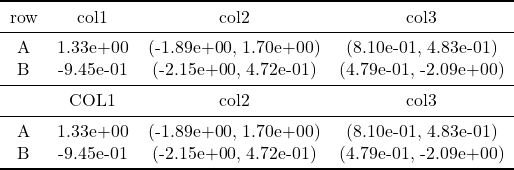
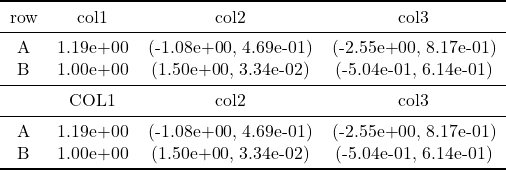
build based on 5904b08

diff --git a/dev/index.html b/dev/index.html
@@ -1,2 +1,2 @@
 <!DOCTYPE html>
-<html lang="en"><head><meta charset="UTF-8"/><meta name="viewport" content="width=device-width, initial-scale=1.0"/><title>LaTeXTables.jl Documentation · LaTeXTables.jl Documentation</title><script data-outdated-warner src="assets/warner.js"></script><link href="https://cdnjs.cloudflare.com/ajax/libs/lato-font/3.0.0/css/lato-font.min.css" rel="stylesheet" type="text/css"/><link href="https://cdnjs.cloudflare.com/ajax/libs/juliamono/0.045/juliamono.min.css" rel="stylesheet" type="text/css"/><link href="https://cdnjs.cloudflare.com/ajax/libs/font-awesome/5.15.4/css/fontawesome.min.css" rel="stylesheet" type="text/css"/><link href="https://cdnjs.cloudflare.com/ajax/libs/font-awesome/5.15.4/css/solid.min.css" rel="stylesheet" type="text/css"/><link href="https://cdnjs.cloudflare.com/ajax/libs/font-awesome/5.15.4/css/brands.min.css" rel="stylesheet" type="text/css"/><link href="https://cdnjs.cloudflare.com/ajax/libs/KaTeX/0.13.24/katex.min.css" rel="stylesheet" type="text/css"/><script>documenterBaseURL="."</script><script src="https://cdnjs.cloudflare.com/ajax/libs/require.js/2.3.6/require.min.js" data-main="assets/documenter.js"></script><script src="siteinfo.js"></script><script src="../versions.js"></script><link class="docs-theme-link" rel="stylesheet" type="text/css" href="assets/themes/documenter-dark.css" data-theme-name="documenter-dark" data-theme-primary-dark/><link class="docs-theme-link" rel="stylesheet" type="text/css" href="assets/themes/documenter-light.css" data-theme-name="documenter-light" data-theme-primary/><script src="assets/themeswap.js"></script></head><body><div id="documenter"><nav class="docs-sidebar"><div class="docs-package-name"><span class="docs-autofit"><a href>LaTeXTables.jl Documentation</a></span></div><form class="docs-search" action="search/"><input class="docs-search-query" id="documenter-search-query" name="q" type="text" placeholder="Search docs"/></form><ul class="docs-menu"><li class="is-active"><a class="tocitem" href>LaTeXTables.jl Documentation</a><ul class="internal"><li><a class="tocitem" href="#Related-Packages"><span>Related Packages</span></a></li></ul></li><li><a class="tocitem" href="api/">API</a></li><li><a class="tocitem" href="example/">Examples</a></li></ul><div class="docs-version-selector field has-addons"><div class="control"><span class="docs-label button is-static is-size-7">Version</span></div><div class="docs-selector control is-expanded"><div class="select is-fullwidth is-size-7"><select id="documenter-version-selector"></select></div></div></div></nav><div class="docs-main"><header class="docs-navbar"><nav class="breadcrumb"><ul class="is-hidden-mobile"><li class="is-active"><a href>LaTeXTables.jl Documentation</a></li></ul><ul class="is-hidden-tablet"><li class="is-active"><a href>LaTeXTables.jl Documentation</a></li></ul></nav><div class="docs-right"><a class="docs-edit-link" href="https://github.com/szcf-weiya/LaTeXTables.jl/blob/master/docs/src/index.md" title="Edit on GitHub"><span class="docs-icon fab"></span><span class="docs-label is-hidden-touch">Edit on GitHub</span></a><a class="docs-settings-button fas fa-cog" id="documenter-settings-button" href="#" title="Settings"></a><a class="docs-sidebar-button fa fa-bars is-hidden-desktop" id="documenter-sidebar-button" href="#"></a></div></header><article class="content" id="documenter-page"><h1 id="LaTeXTables.jl-Documentation"><a class="docs-heading-anchor" href="#LaTeXTables.jl-Documentation">LaTeXTables.jl Documentation</a><a id="LaTeXTables.jl-Documentation-1"></a><a class="docs-heading-anchor-permalink" href="#LaTeXTables.jl-Documentation" title="Permalink"></a></h1><p>LaTeXTables.jl is a Julia package that coverts (complex) tables into LaTeX code.</p><h2 id="Related-Packages"><a class="docs-heading-anchor" href="#Related-Packages">Related Packages</a><a id="Related-Packages-1"></a><a class="docs-heading-anchor-permalink" href="#Related-Packages" title="Permalink"></a></h2><ul><li><a href="https://github.com/scheinerman/LatexPrint.jl">https://github.com/scheinerman/LatexPrint.jl</a>: only support basic data structure, such as 1d or 2d arrays</li><li><a href="https://github.com/ronisbr/PrettyTables.jl">https://github.com/ronisbr/PrettyTables.jl</a>: only support simple tables, i.e., one level row and one level column</li></ul></article><nav class="docs-footer"><a class="docs-footer-nextpage" href="api/">API »</a><div class="flexbox-break"></div><p class="footer-message">Powered by <a href="https://github.com/JuliaDocs/Documenter.jl">Documenter.jl</a> and the <a href="https://julialang.org/">Julia Programming Language</a>.</p></nav></div><div class="modal" id="documenter-settings"><div class="modal-background"></div><div class="modal-card"><header class="modal-card-head"><p class="modal-card-title">Settings</p><button class="delete"></button></header><section class="modal-card-body"><p><label class="label">Theme</label><div class="select"><select id="documenter-themepicker"><option value="documenter-light">documenter-light</option><option value="documenter-dark">documenter-dark</option></select></div></p><hr/><p>This document was generated with <a href="https://github.com/JuliaDocs/Documenter.jl">Documenter.jl</a> version 0.27.23 on <span class="colophon-date" title="Wednesday 4 January 2023 02:02">Wednesday 4 January 2023</span>. Using Julia version 1.7.3.</p></section><footer class="modal-card-foot"></footer></div></div></div></body></html>
+<html lang="en"><head><meta charset="UTF-8"/><meta name="viewport" content="width=device-width, initial-scale=1.0"/><title>LaTeXTables.jl Documentation · LaTeXTables.jl Documentation</title><script data-outdated-warner src="assets/warner.js"></script><link href="https://cdnjs.cloudflare.com/ajax/libs/lato-font/3.0.0/css/lato-font.min.css" rel="stylesheet" type="text/css"/><link href="https://cdnjs.cloudflare.com/ajax/libs/juliamono/0.045/juliamono.min.css" rel="stylesheet" type="text/css"/><link href="https://cdnjs.cloudflare.com/ajax/libs/font-awesome/5.15.4/css/fontawesome.min.css" rel="stylesheet" type="text/css"/><link href="https://cdnjs.cloudflare.com/ajax/libs/font-awesome/5.15.4/css/solid.min.css" rel="stylesheet" type="text/css"/><link href="https://cdnjs.cloudflare.com/ajax/libs/font-awesome/5.15.4/css/brands.min.css" rel="stylesheet" type="text/css"/><link href="https://cdnjs.cloudflare.com/ajax/libs/KaTeX/0.13.24/katex.min.css" rel="stylesheet" type="text/css"/><script>documenterBaseURL="."</script><script src="https://cdnjs.cloudflare.com/ajax/libs/require.js/2.3.6/require.min.js" data-main="assets/documenter.js"></script><script src="siteinfo.js"></script><script src="../versions.js"></script><link class="docs-theme-link" rel="stylesheet" type="text/css" href="assets/themes/documenter-dark.css" data-theme-name="documenter-dark" data-theme-primary-dark/><link class="docs-theme-link" rel="stylesheet" type="text/css" href="assets/themes/documenter-light.css" data-theme-name="documenter-light" data-theme-primary/><script src="assets/themeswap.js"></script></head><body><div id="documenter"><nav class="docs-sidebar"><div class="docs-package-name"><span class="docs-autofit"><a href>LaTeXTables.jl Documentation</a></span></div><form class="docs-search" action="search/"><input class="docs-search-query" id="documenter-search-query" name="q" type="text" placeholder="Search docs"/></form><ul class="docs-menu"><li class="is-active"><a class="tocitem" href>LaTeXTables.jl Documentation</a><ul class="internal"><li><a class="tocitem" href="#Related-Packages"><span>Related Packages</span></a></li></ul></li><li><a class="tocitem" href="api/">API</a></li><li><a class="tocitem" href="example/">Examples</a></li></ul><div class="docs-version-selector field has-addons"><div class="control"><span class="docs-label button is-static is-size-7">Version</span></div><div class="docs-selector control is-expanded"><div class="select is-fullwidth is-size-7"><select id="documenter-version-selector"></select></div></div></div></nav><div class="docs-main"><header class="docs-navbar"><nav class="breadcrumb"><ul class="is-hidden-mobile"><li class="is-active"><a href>LaTeXTables.jl Documentation</a></li></ul><ul class="is-hidden-tablet"><li class="is-active"><a href>LaTeXTables.jl Documentation</a></li></ul></nav><div class="docs-right"><a class="docs-edit-link" href="https://github.com/szcf-weiya/LaTeXTables.jl/blob/master/docs/src/index.md" title="Edit on GitHub"><span class="docs-icon fab"></span><span class="docs-label is-hidden-touch">Edit on GitHub</span></a><a class="docs-settings-button fas fa-cog" id="documenter-settings-button" href="#" title="Settings"></a><a class="docs-sidebar-button fa fa-bars is-hidden-desktop" id="documenter-sidebar-button" href="#"></a></div></header><article class="content" id="documenter-page"><h1 id="LaTeXTables.jl-Documentation"><a class="docs-heading-anchor" href="#LaTeXTables.jl-Documentation">LaTeXTables.jl Documentation</a><a id="LaTeXTables.jl-Documentation-1"></a><a class="docs-heading-anchor-permalink" href="#LaTeXTables.jl-Documentation" title="Permalink"></a></h1><p>LaTeXTables.jl is a Julia package that coverts (complex) tables into LaTeX code.</p><h2 id="Related-Packages"><a class="docs-heading-anchor" href="#Related-Packages">Related Packages</a><a id="Related-Packages-1"></a><a class="docs-heading-anchor-permalink" href="#Related-Packages" title="Permalink"></a></h2><ul><li><a href="https://github.com/scheinerman/LatexPrint.jl">https://github.com/scheinerman/LatexPrint.jl</a>: only support basic data structure, such as 1d or 2d arrays</li><li><a href="https://github.com/ronisbr/PrettyTables.jl">https://github.com/ronisbr/PrettyTables.jl</a>: only support simple tables, i.e., one level row and one level column</li></ul></article><nav class="docs-footer"><a class="docs-footer-nextpage" href="api/">API »</a><div class="flexbox-break"></div><p class="footer-message">Powered by <a href="https://github.com/JuliaDocs/Documenter.jl">Documenter.jl</a> and the <a href="https://julialang.org/">Julia Programming Language</a>.</p></nav></div><div class="modal" id="documenter-settings"><div class="modal-background"></div><div class="modal-card"><header class="modal-card-head"><p class="modal-card-title">Settings</p><button class="delete"></button></header><section class="modal-card-body"><p><label class="label">Theme</label><div class="select"><select id="documenter-themepicker"><option value="documenter-light">documenter-light</option><option value="documenter-dark">documenter-dark</option></select></div></p><hr/><p>This document was generated with <a href="https://github.com/JuliaDocs/Documenter.jl">Documenter.jl</a> version 0.27.23 on <span class="colophon-date" title="Wednesday 4 January 2023 02:21">Wednesday 4 January 2023</span>. Using Julia version 1.7.3.</p></section><footer class="modal-card-foot"></footer></div></div></div></body></html>

diff --git a/dev/search/index.html b/dev/search/index.html
@@ -1,2 +1,2 @@
 <!DOCTYPE html>
-<html lang="en"><head><meta charset="UTF-8"/><meta name="viewport" content="width=device-width, initial-scale=1.0"/><title>Search · LaTeXTables.jl Documentation</title><script data-outdated-warner src="../assets/warner.js"></script><link href="https://cdnjs.cloudflare.com/ajax/libs/lato-font/3.0.0/css/lato-font.min.css" rel="stylesheet" type="text/css"/><link href="https://cdnjs.cloudflare.com/ajax/libs/juliamono/0.045/juliamono.min.css" rel="stylesheet" type="text/css"/><link href="https://cdnjs.cloudflare.com/ajax/libs/font-awesome/5.15.4/css/fontawesome.min.css" rel="stylesheet" type="text/css"/><link href="https://cdnjs.cloudflare.com/ajax/libs/font-awesome/5.15.4/css/solid.min.css" rel="stylesheet" type="text/css"/><link href="https://cdnjs.cloudflare.com/ajax/libs/font-awesome/5.15.4/css/brands.min.css" rel="stylesheet" type="text/css"/><link href="https://cdnjs.cloudflare.com/ajax/libs/KaTeX/0.13.24/katex.min.css" rel="stylesheet" type="text/css"/><script>documenterBaseURL=".."</script><script src="https://cdnjs.cloudflare.com/ajax/libs/require.js/2.3.6/require.min.js" data-main="../assets/documenter.js"></script><script src="../siteinfo.js"></script><script src="../../versions.js"></script><link class="docs-theme-link" rel="stylesheet" type="text/css" href="../assets/themes/documenter-dark.css" data-theme-name="documenter-dark" data-theme-primary-dark/><link class="docs-theme-link" rel="stylesheet" type="text/css" href="../assets/themes/documenter-light.css" data-theme-name="documenter-light" data-theme-primary/><script src="../assets/themeswap.js"></script></head><body><div id="documenter"><nav class="docs-sidebar"><div class="docs-package-name"><span class="docs-autofit"><a href="../">LaTeXTables.jl Documentation</a></span></div><form class="docs-search" action><input class="docs-search-query" id="documenter-search-query" name="q" type="text" placeholder="Search docs"/></form><ul class="docs-menu"><li><a class="tocitem" href="../">LaTeXTables.jl Documentation</a></li><li><a class="tocitem" href="../api/">API</a></li><li><a class="tocitem" href="../example/">Examples</a></li></ul><div class="docs-version-selector field has-addons"><div class="control"><span class="docs-label button is-static is-size-7">Version</span></div><div class="docs-selector control is-expanded"><div class="select is-fullwidth is-size-7"><select id="documenter-version-selector"></select></div></div></div></nav><div class="docs-main"><header class="docs-navbar"><nav class="breadcrumb"><ul class="is-hidden-mobile"><li class="is-active"><a href>Search</a></li></ul><ul class="is-hidden-tablet"><li class="is-active"><a href>Search</a></li></ul></nav><div class="docs-right"><a class="docs-settings-button fas fa-cog" id="documenter-settings-button" href="#" title="Settings"></a><a class="docs-sidebar-button fa fa-bars is-hidden-desktop" id="documenter-sidebar-button" href="#"></a></div></header><article><p id="documenter-search-info">Loading search...</p><ul id="documenter-search-results"></ul></article><nav class="docs-footer"><p class="footer-message">Powered by <a href="https://github.com/JuliaDocs/Documenter.jl">Documenter.jl</a> and the <a href="https://julialang.org/">Julia Programming Language</a>.</p></nav></div><div class="modal" id="documenter-settings"><div class="modal-background"></div><div class="modal-card"><header class="modal-card-head"><p class="modal-card-title">Settings</p><button class="delete"></button></header><section class="modal-card-body"><p><label class="label">Theme</label><div class="select"><select id="documenter-themepicker"><option value="documenter-light">documenter-light</option><option value="documenter-dark">documenter-dark</option></select></div></p><hr/><p>This document was generated with <a href="https://github.com/JuliaDocs/Documenter.jl">Documenter.jl</a> version 0.27.23 on <span class="colophon-date" title="Wednesday 4 January 2023 02:02">Wednesday 4 January 2023</span>. Using Julia version 1.7.3.</p></section><footer class="modal-card-foot"></footer></div></div></div></body><script src="../search_index.js"></script><script src="../assets/search.js"></script></html>
+<html lang="en"><head><meta charset="UTF-8"/><meta name="viewport" content="width=device-width, initial-scale=1.0"/><title>Search · LaTeXTables.jl Documentation</title><script data-outdated-warner src="../assets/warner.js"></script><link href="https://cdnjs.cloudflare.com/ajax/libs/lato-font/3.0.0/css/lato-font.min.css" rel="stylesheet" type="text/css"/><link href="https://cdnjs.cloudflare.com/ajax/libs/juliamono/0.045/juliamono.min.css" rel="stylesheet" type="text/css"/><link href="https://cdnjs.cloudflare.com/ajax/libs/font-awesome/5.15.4/css/fontawesome.min.css" rel="stylesheet" type="text/css"/><link href="https://cdnjs.cloudflare.com/ajax/libs/font-awesome/5.15.4/css/solid.min.css" rel="stylesheet" type="text/css"/><link href="https://cdnjs.cloudflare.com/ajax/libs/font-awesome/5.15.4/css/brands.min.css" rel="stylesheet" type="text/css"/><link href="https://cdnjs.cloudflare.com/ajax/libs/KaTeX/0.13.24/katex.min.css" rel="stylesheet" type="text/css"/><script>documenterBaseURL=".."</script><script src="https://cdnjs.cloudflare.com/ajax/libs/require.js/2.3.6/require.min.js" data-main="../assets/documenter.js"></script><script src="../siteinfo.js"></script><script src="../../versions.js"></script><link class="docs-theme-link" rel="stylesheet" type="text/css" href="../assets/themes/documenter-dark.css" data-theme-name="documenter-dark" data-theme-primary-dark/><link class="docs-theme-link" rel="stylesheet" type="text/css" href="../assets/themes/documenter-light.css" data-theme-name="documenter-light" data-theme-primary/><script src="../assets/themeswap.js"></script></head><body><div id="documenter"><nav class="docs-sidebar"><div class="docs-package-name"><span class="docs-autofit"><a href="../">LaTeXTables.jl Documentation</a></span></div><form class="docs-search" action><input class="docs-search-query" id="documenter-search-query" name="q" type="text" placeholder="Search docs"/></form><ul class="docs-menu"><li><a class="tocitem" href="../">LaTeXTables.jl Documentation</a></li><li><a class="tocitem" href="../api/">API</a></li><li><a class="tocitem" href="../example/">Examples</a></li></ul><div class="docs-version-selector field has-addons"><div class="control"><span class="docs-label button is-static is-size-7">Version</span></div><div class="docs-selector control is-expanded"><div class="select is-fullwidth is-size-7"><select id="documenter-version-selector"></select></div></div></div></nav><div class="docs-main"><header class="docs-navbar"><nav class="breadcrumb"><ul class="is-hidden-mobile"><li class="is-active"><a href>Search</a></li></ul><ul class="is-hidden-tablet"><li class="is-active"><a href>Search</a></li></ul></nav><div class="docs-right"><a class="docs-settings-button fas fa-cog" id="documenter-settings-button" href="#" title="Settings"></a><a class="docs-sidebar-button fa fa-bars is-hidden-desktop" id="documenter-sidebar-button" href="#"></a></div></header><article><p id="documenter-search-info">Loading search...</p><ul id="documenter-search-results"></ul></article><nav class="docs-footer"><p class="footer-message">Powered by <a href="https://github.com/JuliaDocs/Documenter.jl">Documenter.jl</a> and the <a href="https://julialang.org/">Julia Programming Language</a>.</p></nav></div><div class="modal" id="documenter-settings"><div class="modal-background"></div><div class="modal-card"><header class="modal-card-head"><p class="modal-card-title">Settings</p><button class="delete"></button></header><section class="modal-card-body"><p><label class="label">Theme</label><div class="select"><select id="documenter-themepicker"><option value="documenter-light">documenter-light</option><option value="documenter-dark">documenter-dark</option></select></div></p><hr/><p>This document was generated with <a href="https://github.com/JuliaDocs/Documenter.jl">Documenter.jl</a> version 0.27.23 on <span class="colophon-date" title="Wednesday 4 January 2023 02:21">Wednesday 4 January 2023</span>. Using Julia version 1.7.3.</p></section><footer class="modal-card-foot"></footer></div></div></div></body><script src="../search_index.js"></script><script src="../assets/search.js"></script></html>

diff --git a/dev/api/index.html b/dev/api/index.html
@@ -13,4 +13,4 @@ julia&gt; print2tex(μ, σ, [&quot;A&quot;, &quot;B&quot;], [&quot;a&quot;, &quo
 noc = 0
 14
 
-julia&gt; tex2png(&quot;ex1.tex&quot;)</code></pre></div><a class="docs-sourcelink" target="_blank" href="https://github.com/szcf-weiya/LaTeXTables.jl/blob/34244815c0aa748ce747c065181f905ea186dafb/src/tab2tex.jl#L7-L33">source</a></section></article><article class="docstring"><header><a class="docstring-binding" id="LaTeXTables.tex2png" href="#LaTeXTables.tex2png"><code>LaTeXTables.tex2png</code></a> — <span class="docstring-category">Function</span></header><section><div><pre><code class="language-julia hljs">tex2png()</code></pre><p>Render a latex table source file into an image via https://quicklatex.com/js/quicklatex.js</p></div><a class="docs-sourcelink" target="_blank" href="https://github.com/szcf-weiya/LaTeXTables.jl/blob/34244815c0aa748ce747c065181f905ea186dafb/src/render.jl#L2-L6">source</a></section></article></article><nav class="docs-footer"><a class="docs-footer-prevpage" href="../">« LaTeXTables.jl Documentation</a><a class="docs-footer-nextpage" href="../example/">Examples »</a><div class="flexbox-break"></div><p class="footer-message">Powered by <a href="https://github.com/JuliaDocs/Documenter.jl">Documenter.jl</a> and the <a href="https://julialang.org/">Julia Programming Language</a>.</p></nav></div><div class="modal" id="documenter-settings"><div class="modal-background"></div><div class="modal-card"><header class="modal-card-head"><p class="modal-card-title">Settings</p><button class="delete"></button></header><section class="modal-card-body"><p><label class="label">Theme</label><div class="select"><select id="documenter-themepicker"><option value="documenter-light">documenter-light</option><option value="documenter-dark">documenter-dark</option></select></div></p><hr/><p>This document was generated with <a href="https://github.com/JuliaDocs/Documenter.jl">Documenter.jl</a> version 0.27.23 on <span class="colophon-date" title="Wednesday 4 January 2023 02:02">Wednesday 4 January 2023</span>. Using Julia version 1.7.3.</p></section><footer class="modal-card-foot"></footer></div></div></div></body></html>
+julia&gt; tex2png(&quot;ex1.tex&quot;)</code></pre></div><a class="docs-sourcelink" target="_blank" href="https://github.com/szcf-weiya/LaTeXTables.jl/blob/5904b083e5ba349c735da2efcde2e5f695bdf0e5/src/tab2tex.jl#L7-L33">source</a></section></article><article class="docstring"><header><a class="docstring-binding" id="LaTeXTables.tex2png" href="#LaTeXTables.tex2png"><code>LaTeXTables.tex2png</code></a> — <span class="docstring-category">Function</span></header><section><div><pre><code class="language-julia hljs">tex2png()</code></pre><p>Render a latex table source file into an image via https://quicklatex.com/js/quicklatex.js</p></div><a class="docs-sourcelink" target="_blank" href="https://github.com/szcf-weiya/LaTeXTables.jl/blob/5904b083e5ba349c735da2efcde2e5f695bdf0e5/src/render.jl#L2-L6">source</a></section></article></article><nav class="docs-footer"><a class="docs-footer-prevpage" href="../">« LaTeXTables.jl Documentation</a><a class="docs-footer-nextpage" href="../example/">Examples »</a><div class="flexbox-break"></div><p class="footer-message">Powered by <a href="https://github.com/JuliaDocs/Documenter.jl">Documenter.jl</a> and the <a href="https://julialang.org/">Julia Programming Language</a>.</p></nav></div><div class="modal" id="documenter-settings"><div class="modal-background"></div><div class="modal-card"><header class="modal-card-head"><p class="modal-card-title">Settings</p><button class="delete"></button></header><section class="modal-card-body"><p><label class="label">Theme</label><div class="select"><select id="documenter-themepicker"><option value="documenter-light">documenter-light</option><option value="documenter-dark">documenter-dark</option></select></div></p><hr/><p>This document was generated with <a href="https://github.com/JuliaDocs/Documenter.jl">Documenter.jl</a> version 0.27.23 on <span class="colophon-date" title="Wednesday 4 January 2023 02:21">Wednesday 4 January 2023</span>. Using Julia version 1.7.3.</p></section><footer class="modal-card-foot"></footer></div></div></div></body></html>

diff --git a/dev/example/index.html b/dev/example/index.html
@@ -29,4 +29,4 @@ others_σ = [rand(3, 1), rand(3, 1)]
 print2tex(μ, σ, [&quot;A&quot;, &quot;B&quot;], [&quot;a&quot;, &quot;b&quot;], [&quot;1&quot;,&quot;2&quot;,&quot;3&quot;], [&quot;x&quot;, &quot;y&quot;], file = &quot;ex2.tex&quot;, other_cols = others, other_col_names = [&quot;other&quot;], other_cols_σ = others_σ)
 tex2png(&quot;ex2.tex&quot;)</code></pre><pre class="documenter-example-output"><code class="nohighlight hljs ansi">&quot;ex2.png&quot;</code></pre><p><img src="../ex2.png" alt/></p><h3 id="Add-columns-on-the-right"><a class="docs-heading-anchor" href="#Add-columns-on-the-right">Add columns on the right</a><a id="Add-columns-on-the-right-1"></a><a class="docs-heading-anchor-permalink" href="#Add-columns-on-the-right" title="Permalink"></a></h3><pre><code class="language-julia hljs">right = [[rand(3), rand(3)]]
 print2tex(μ, σ, [&quot;A&quot;, &quot;B&quot;], [&quot;a&quot;, &quot;b&quot;], [&quot;1&quot;,&quot;2&quot;,&quot;3&quot;], [&quot;x&quot;, &quot;y&quot;], file = &quot;ex3.tex&quot;, other_cols = others, other_col_names = [&quot;other&quot;], other_cols_σ = others_σ, right_cols = right, right_col_names = [&quot;right&quot;])
-tex2png(&quot;ex3.tex&quot;)</code></pre><pre class="documenter-example-output"><code class="nohighlight hljs ansi">&quot;ex3.png&quot;</code></pre><p><img src="../ex3.png" alt/></p></article><nav class="docs-footer"><a class="docs-footer-prevpage" href="../api/">« API</a><div class="flexbox-break"></div><p class="footer-message">Powered by <a href="https://github.com/JuliaDocs/Documenter.jl">Documenter.jl</a> and the <a href="https://julialang.org/">Julia Programming Language</a>.</p></nav></div><div class="modal" id="documenter-settings"><div class="modal-background"></div><div class="modal-card"><header class="modal-card-head"><p class="modal-card-title">Settings</p><button class="delete"></button></header><section class="modal-card-body"><p><label class="label">Theme</label><div class="select"><select id="documenter-themepicker"><option value="documenter-light">documenter-light</option><option value="documenter-dark">documenter-dark</option></select></div></p><hr/><p>This document was generated with <a href="https://github.com/JuliaDocs/Documenter.jl">Documenter.jl</a> version 0.27.23 on <span class="colophon-date" title="Wednesday 4 January 2023 02:02">Wednesday 4 January 2023</span>. Using Julia version 1.7.3.</p></section><footer class="modal-card-foot"></footer></div></div></div></body></html>
+tex2png(&quot;ex3.tex&quot;)</code></pre><pre class="documenter-example-output"><code class="nohighlight hljs ansi">&quot;ex3.png&quot;</code></pre><p><img src="../ex3.png" alt/></p></article><nav class="docs-footer"><a class="docs-footer-prevpage" href="../api/">« API</a><div class="flexbox-break"></div><p class="footer-message">Powered by <a href="https://github.com/JuliaDocs/Documenter.jl">Documenter.jl</a> and the <a href="https://julialang.org/">Julia Programming Language</a>.</p></nav></div><div class="modal" id="documenter-settings"><div class="modal-background"></div><div class="modal-card"><header class="modal-card-head"><p class="modal-card-title">Settings</p><button class="delete"></button></header><section class="modal-card-body"><p><label class="label">Theme</label><div class="select"><select id="documenter-themepicker"><option value="documenter-light">documenter-light</option><option value="documenter-dark">documenter-dark</option></select></div></p><hr/><p>This document was generated with <a href="https://github.com/JuliaDocs/Documenter.jl">Documenter.jl</a> version 0.27.23 on <span class="colophon-date" title="Wednesday 4 January 2023 02:21">Wednesday 4 January 2023</span>. Using Julia version 1.7.3.</p></section><footer class="modal-card-foot"></footer></div></div></div></body></html>

diff --git a/dev/ex3.tex b/dev/ex3.tex
@@ -5,12 +5,12 @@
 \cmidrule(lr){6-7}
 &&&x&y&x&y\tabularnewline
 \midrule
-\multirow{3}{*}{A}&1& 9.53e-01 (2.3e-01)& 5.27e-01 (8.1e-01)& 8.95e-01 (8.5e-01)& 8.23e-01 (5.4e-02)& 7.66e-01 (4.8e-01)& 0.23597333528981246\tabularnewline
-&2& 4.81e-02 (1.7e-01)& 3.69e-01 (8.9e-01)& 1.12e-01 (1.7e-01)& 7.44e-01 (9.4e-01)& 7.51e-01 (8.3e-01)& 0.8996788100641075\tabularnewline
-&3& 8.93e-01 (5.3e-02)& 8.94e-01 (3.6e-01)& 8.59e-01 (4.1e-01)& 6.31e-01 (4.5e-01)& 7.91e-01 (8.4e-01)& 0.8100171296843494\tabularnewline
+\multirow{3}{*}{A}&1& 4.71e-01 (5.4e-01)& 4.16e-01 (2.7e-01)& 8.77e-01 (5.8e-01)& 9.49e-01 (9.4e-01)& 1.30e-01 (6.7e-01)& 0.6953347886256827\tabularnewline
+&2& 9.68e-01 (5.4e-01)& 1.57e-01 (9.1e-01)& 9.08e-01 (2.4e-01)& 9.59e-01 (4.3e-02)& 8.12e-01 (8.3e-01)& 0.3221765254389888\tabularnewline
+&3& 8.84e-01 (1.0e-01)& 8.97e-01 (9.3e-02)& 6.73e-01 (7.3e-02)& 3.19e-01 (8.6e-01)& 7.00e-01 (2.5e-01)& 0.17986707434036142\tabularnewline
 \midrule
-\multirow{3}{*}{B}&1& 8.89e-01 (9.7e-01)& 5.91e-01 (1.0e-01)& 4.76e-01 (5.6e-01)& 3.33e-01 (8.4e-01)& 5.50e-01 (6.0e-01)& 0.6972903828294342\tabularnewline
-&2& 6.41e-01 (3.6e-01)& 8.60e-02 (2.2e-01)& 1.38e-01 (2.4e-02)& 6.13e-01 (4.1e-01)& 7.21e-01 (8.9e-01)& 0.5544604590304175\tabularnewline
-&3& 5.48e-01 (8.5e-01)& 2.76e-01 (2.2e-01)& 7.74e-02 (3.3e-01)& 6.79e-01 (5.8e-01)& 8.18e-01 (2.8e-01)& 0.5044570636876263\tabularnewline
+\multirow{3}{*}{B}&1& 4.25e-01 (9.1e-01)& 9.96e-01 (9.5e-01)& 8.54e-01 (1.0e-02)& 4.57e-01 (3.5e-01)& 8.23e-01 (3.8e-01)& 0.47677635375467675\tabularnewline
+&2& 4.65e-01 (9.9e-01)& 8.91e-01 (3.1e-01)& 2.23e-01 (9.3e-01)& 8.73e-01 (3.1e-01)& 8.77e-01 (5.1e-01)& 0.9095270319424117\tabularnewline
+&3& 5.11e-01 (7.7e-01)& 6.10e-01 (4.9e-01)& 8.44e-01 (3.9e-01)& 2.63e-01 (6.7e-02)& 5.81e-01 (1.9e-01)& 0.6064933688352014\tabularnewline
 \bottomrule
 \end{tabular}

diff --git a/dev/ex2.tex b/dev/ex2.tex
@@ -5,12 +5,12 @@
 \cmidrule(lr){6-7}
 &&&x&y&x&y\tabularnewline
 \midrule
-\multirow{3}{*}{A}&1& 9.53e-01 (2.3e-01)& 5.27e-01 (8.1e-01)& 8.95e-01 (8.5e-01)& 8.23e-01 (5.4e-02)& 7.66e-01 (4.8e-01)\tabularnewline
-&2& 4.81e-02 (1.7e-01)& 3.69e-01 (8.9e-01)& 1.12e-01 (1.7e-01)& 7.44e-01 (9.4e-01)& 7.51e-01 (8.3e-01)\tabularnewline
-&3& 8.93e-01 (5.3e-02)& 8.94e-01 (3.6e-01)& 8.59e-01 (4.1e-01)& 6.31e-01 (4.5e-01)& 7.91e-01 (8.4e-01)\tabularnewline
+\multirow{3}{*}{A}&1& 4.71e-01 (5.4e-01)& 4.16e-01 (2.7e-01)& 8.77e-01 (5.8e-01)& 9.49e-01 (9.4e-01)& 1.30e-01 (6.7e-01)\tabularnewline
+&2& 9.68e-01 (5.4e-01)& 1.57e-01 (9.1e-01)& 9.08e-01 (2.4e-01)& 9.59e-01 (4.3e-02)& 8.12e-01 (8.3e-01)\tabularnewline
+&3& 8.84e-01 (1.0e-01)& 8.97e-01 (9.3e-02)& 6.73e-01 (7.3e-02)& 3.19e-01 (8.6e-01)& 7.00e-01 (2.5e-01)\tabularnewline
 \midrule
-\multirow{3}{*}{B}&1& 8.89e-01 (9.7e-01)& 5.91e-01 (1.0e-01)& 4.76e-01 (5.6e-01)& 3.33e-01 (8.4e-01)& 5.50e-01 (6.0e-01)\tabularnewline
-&2& 6.41e-01 (3.6e-01)& 8.60e-02 (2.2e-01)& 1.38e-01 (2.4e-02)& 6.13e-01 (4.1e-01)& 7.21e-01 (8.9e-01)\tabularnewline
-&3& 5.48e-01 (8.5e-01)& 2.76e-01 (2.2e-01)& 7.74e-02 (3.3e-01)& 6.79e-01 (5.8e-01)& 8.18e-01 (2.8e-01)\tabularnewline
+\multirow{3}{*}{B}&1& 4.25e-01 (9.1e-01)& 9.96e-01 (9.5e-01)& 8.54e-01 (1.0e-02)& 4.57e-01 (3.5e-01)& 8.23e-01 (3.8e-01)\tabularnewline
+&2& 4.65e-01 (9.9e-01)& 8.91e-01 (3.1e-01)& 2.23e-01 (9.3e-01)& 8.73e-01 (3.1e-01)& 8.77e-01 (5.1e-01)\tabularnewline
+&3& 5.11e-01 (7.7e-01)& 6.10e-01 (4.9e-01)& 8.44e-01 (3.9e-01)& 2.63e-01 (6.7e-02)& 5.81e-01 (1.9e-01)\tabularnewline
 \bottomrule
 \end{tabular}

diff --git a/dev/ex1.tex b/dev/ex1.tex
@@ -5,12 +5,12 @@
 \cmidrule(lr){5-6}
 &&x&y&x&y\tabularnewline
 \midrule
-\multirow{3}{*}{A}&1& 5.27e-01 (8.1e-01)& 8.95e-01 (8.5e-01)& 8.23e-01 (5.4e-02)& 7.66e-01 (4.8e-01)\tabularnewline
-&2& 3.69e-01 (8.9e-01)& 1.12e-01 (1.7e-01)& 7.44e-01 (9.4e-01)& 7.51e-01 (8.3e-01)\tabularnewline
-&3& 8.94e-01 (3.6e-01)& 8.59e-01 (4.1e-01)& 6.31e-01 (4.5e-01)& 7.91e-01 (8.4e-01)\tabularnewline
+\multirow{3}{*}{A}&1& 4.16e-01 (2.7e-01)& 8.77e-01 (5.8e-01)& 9.49e-01 (9.4e-01)& 1.30e-01 (6.7e-01)\tabularnewline
+&2& 1.57e-01 (9.1e-01)& 9.08e-01 (2.4e-01)& 9.59e-01 (4.3e-02)& 8.12e-01 (8.3e-01)\tabularnewline
+&3& 8.97e-01 (9.3e-02)& 6.73e-01 (7.3e-02)& 3.19e-01 (8.6e-01)& 7.00e-01 (2.5e-01)\tabularnewline
 \midrule
-\multirow{3}{*}{B}&1& 5.91e-01 (1.0e-01)& 4.76e-01 (5.6e-01)& 3.33e-01 (8.4e-01)& 5.50e-01 (6.0e-01)\tabularnewline
-&2& 8.60e-02 (2.2e-01)& 1.38e-01 (2.4e-02)& 6.13e-01 (4.1e-01)& 7.21e-01 (8.9e-01)\tabularnewline
-&3& 2.76e-01 (2.2e-01)& 7.74e-02 (3.3e-01)& 6.79e-01 (5.8e-01)& 8.18e-01 (2.8e-01)\tabularnewline
+\multirow{3}{*}{B}&1& 9.96e-01 (9.5e-01)& 8.54e-01 (1.0e-02)& 4.57e-01 (3.5e-01)& 8.23e-01 (3.8e-01)\tabularnewline
+&2& 8.91e-01 (3.1e-01)& 2.23e-01 (9.3e-01)& 8.73e-01 (3.1e-01)& 8.77e-01 (5.1e-01)\tabularnewline
+&3& 6.10e-01 (4.9e-01)& 8.44e-01 (3.9e-01)& 2.63e-01 (6.7e-02)& 5.81e-01 (1.9e-01)\tabularnewline
 \bottomrule
 \end{tabular}

diff --git a/dev/row2col2.tex b/dev/row2col2.tex
@@ -6,10 +6,10 @@
 &&c1&c2&c3&c1&c2&c3\tabularnewline
 \midrule
 \midrule
-\multirow{2}{*}{r01}&r1&-2.08e+00& (1.04e+00, -2.07e+00)& (2.31e-01, -1.18e+00)&-2.08e+00& (1.04e+00, -2.07e+00)& (2.31e-01, -1.18e+00)\tabularnewline
-&r2&-1.28e+00& (-6.58e-01, -4.69e-01)& (-9.16e-01, -7.81e-01)&-1.28e+00& (-6.58e-01, -4.69e-01)& (-9.16e-01, -7.81e-01)\tabularnewline
+\multirow{2}{*}{r01}&r1&8.97e-01& (-1.65e+00, 4.97e-01)& (3.42e-01, 2.66e-01)&8.97e-01& (-1.65e+00, 4.97e-01)& (3.42e-01, 2.66e-01)\tabularnewline
+&r2&1.07e+00& (5.66e-02, -1.30e-01)& (5.03e-01, -6.81e-01)&1.07e+00& (5.66e-02, -1.30e-01)& (5.03e-01, -6.81e-01)\tabularnewline
 \midrule
-\multirow{2}{*}{r02}&r1&-2.08e+00& (1.04e+00, -2.07e+00)& (2.31e-01, -1.18e+00)&-2.08e+00& (1.04e+00, -2.07e+00)& (2.31e-01, -1.18e+00)\tabularnewline
-&r2&-1.28e+00& (-6.58e-01, -4.69e-01)& (-9.16e-01, -7.81e-01)&-1.28e+00& (-6.58e-01, -4.69e-01)& (-9.16e-01, -7.81e-01)\tabularnewline
+\multirow{2}{*}{r02}&r1&8.97e-01& (-1.65e+00, 4.97e-01)& (3.42e-01, 2.66e-01)&8.97e-01& (-1.65e+00, 4.97e-01)& (3.42e-01, 2.66e-01)\tabularnewline
+&r2&1.07e+00& (5.66e-02, -1.30e-01)& (5.03e-01, -6.81e-01)&1.07e+00& (5.66e-02, -1.30e-01)& (5.03e-01, -6.81e-01)\tabularnewline
 \bottomrule
 \end{tabular}

diff --git a/dev/ex02.tex b/dev/ex02.tex
@@ -2,12 +2,12 @@
 \toprule
 row&col1&col2&col3\tabularnewline
 \midrule
-A&1.33e+00& (-1.89e+00, 1.70e+00)& (8.10e-01, 4.83e-01)\tabularnewline
-B&-9.45e-01& (-2.15e+00, 4.72e-01)& (4.79e-01, -2.09e+00)\tabularnewline
+A&1.19e+00& (-1.08e+00, 4.69e-01)& (-2.55e+00, 8.17e-01)\tabularnewline
+B&1.00e+00& (1.50e+00, 3.34e-02)& (-5.04e-01, 6.14e-01)\tabularnewline
 \midrule
 &COL1&col2&col3\tabularnewline
 \midrule
-A&1.33e+00& (-1.89e+00, 1.70e+00)& (8.10e-01, 4.83e-01)\tabularnewline
-B&-9.45e-01& (-2.15e+00, 4.72e-01)& (4.79e-01, -2.09e+00)\tabularnewline
+A&1.19e+00& (-1.08e+00, 4.69e-01)& (-2.55e+00, 8.17e-01)\tabularnewline
+B&1.00e+00& (1.50e+00, 3.34e-02)& (-5.04e-01, 6.14e-01)\tabularnewline
 \bottomrule
 \end{tabular}

diff --git a/dev/col2.tex b/dev/col2.tex
@@ -5,7 +5,7 @@
 \cmidrule(lr){5-7}
 &c1&c2&c3&c1&c2&c3\tabularnewline
 \midrule
-r1&9.44e-01& (-9.23e-01, 2.36e-01)& (-1.63e+00, -2.99e-01)&9.44e-01& (-9.23e-01, 2.36e-01)& (-1.63e+00, -2.99e-01)\tabularnewline
-r2&-1.87e+00& (-6.04e-01, 1.88e+00)& (-1.43e+00, 9.92e-01)&-1.87e+00& (-6.04e-01, 1.88e+00)& (-1.43e+00, 9.92e-01)\tabularnewline
+r1&-1.61e-01& (-1.98e-01, 5.79e-01)& (-2.98e-02, 1.18e+00)&-1.61e-01& (-1.98e-01, 5.79e-01)& (-2.98e-02, 1.18e+00)\tabularnewline
+r2&4.70e-02& (-8.98e-01, -5.34e-01)& (-1.72e-01, -2.44e+00)&4.70e-02& (-8.98e-01, -5.34e-01)& (-1.72e-01, -2.44e+00)\tabularnewline
 \bottomrule
 \end{tabular}

diff --git a/dev/ex01.tex b/dev/ex01.tex
@@ -2,7 +2,7 @@
 \toprule
 row&col1&col2&col3\tabularnewline
 \midrule
-A&3.00e-02& (-3.62e-02, 1.25e-01)& (-5.33e-01, 7.09e-01)\tabularnewline
-B&4.45e-01& (4.18e-01, -2.81e+00)& (-7.47e-01, 9.59e-01)\tabularnewline
+A&-1.32e+00& (-7.98e-01, -8.41e-02)& (-1.31e+00, 7.18e-01)\tabularnewline
+B&-6.30e-03& (-1.06e+00, -9.41e-01)& (7.68e-01, 6.68e-01)\tabularnewline
 \bottomrule
 \end{tabular}

diff --git a/dev/ex0.tex b/dev/ex0.tex
@@ -2,7 +2,7 @@
 \toprule
 row&col1&col2&col3\tabularnewline
 \midrule
-A&3.20e-01&7.83e-01&4.51e-01\tabularnewline
-B&1.60e-01&1.26e-02&8.79e-01\tabularnewline
+A&9.63e-01&7.79e-01&1.37e-01\tabularnewline
+B&1.70e-01&8.74e-01&1.67e-01\tabularnewline
 \bottomrule
 \end{tabular}
